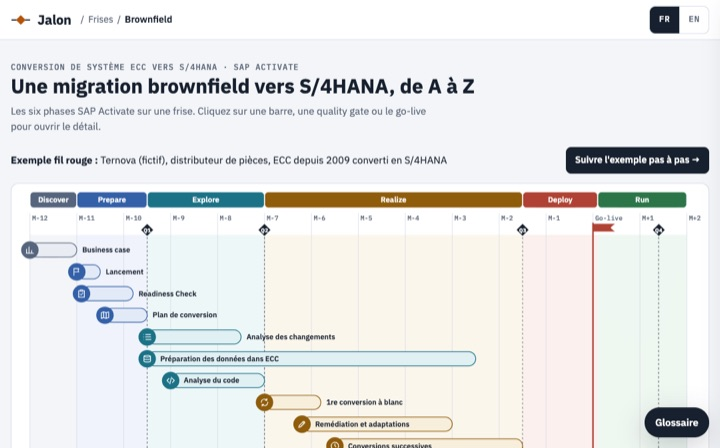
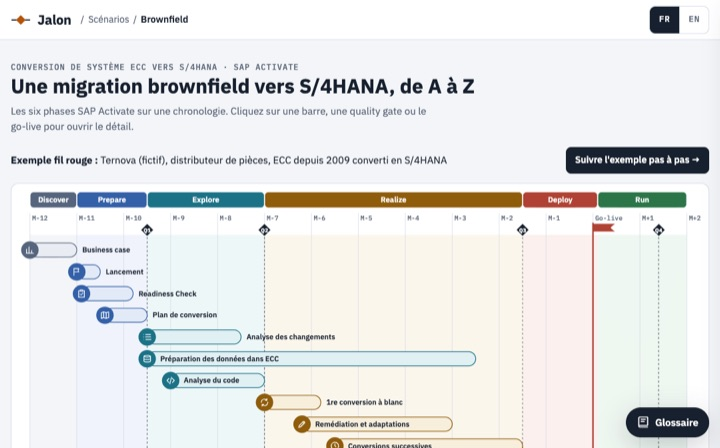
Lot 3 : corrections après le test persona-pm, frises renommées en scénarios

diff --git a/index.html b/index.html
@@ -6,11 +6,11 @@
 <link rel="icon" href="shared/marque/favicon.svg" type="image/svg+xml">
 <link rel="icon" href="shared/marque/favicon-32.png" sizes="32x32" type="image/png">
 <link rel="apple-touch-icon" href="shared/marque/apple-touch-icon.png">
-<meta name="description" content="Frises, glossaire et supports pour piloter un programme SAP : directeurs de programme et chefs de projet. En français et en anglais.">
+<meta name="description" content="Scénarios de mise en œuvre, glossaire et supports pour piloter un programme SAP : directeurs de programme et chefs de projet. En français et en anglais.">
 <meta property="og:site_name" content="Jalon">
 <meta property="og:type" content="website">
 <meta property="og:title" content="Jalon · Piloter un programme SAP">
-<meta property="og:description" content="Frises, glossaire et supports pour piloter un programme SAP : directeurs de programme et chefs de projet. En français et en anglais.">
+<meta property="og:description" content="Scénarios de mise en œuvre, glossaire et supports pour piloter un programme SAP : directeurs de programme et chefs de projet. En français et en anglais.">
 <meta property="og:url" content="https://walidbibi.github.io/portail-elearning-sap/index.html">
 <meta property="og:image" content="https://walidbibi.github.io/portail-elearning-sap/shared/marque/partage.png">
 <meta property="og:image:width" content="1200">
@@ -22,7 +22,7 @@
 <style>html,body{margin:0}[hidden]{display:none!important}img{max-width:100%}</style>
 <title data-t="accueil.titreOnglet"></title>
 <meta name="claude:viewport-fit-sides" content="cover">
-<link rel="stylesheet" href="shared/theme.css?v=202611242116">
+<link rel="stylesheet" href="shared/theme.css?v=202611242130">
 <style>
 /* Accueil de Jalon : bandeau d'entrée, grilles à 4 colonnes, lignes ; téléphone compact (US-032 à US-034). Couleurs : shared/theme.css. */
 *{box-sizing:border-box}
@@ -76,8 +76,6 @@ h2 .ct{font-family:var(--mono);font-size:var(--t-12);font-weight:500;color:var(-
 .fthumb{display:flex;flex-direction:column;justify-content:center;gap:8px;aspect-ratio:16/10;background:var(--mat);padding:14px;border-bottom:1px solid var(--line)}
 .fthumb .ph{display:flex;gap:2px}
 .fthumb .ph i{display:grid;place-items:center;height:20px;border-radius:3px;font-style:normal;font-family:var(--mono);font-size:10px;color:var(--ph-ink);overflow:hidden;white-space:nowrap;min-width:0}
-.fthumb .bars{display:flex;flex-direction:column;gap:4px}
-.fthumb .bars s{display:block;height:6px;border-radius:3px;background:var(--line)}
 .card .exemple{display:block;margin-top:8px;padding-top:8px;border-top:1px dashed var(--line);font-size:var(--t-13);color:var(--muted);line-height:1.4}
 /* lignes : certification et annexes */
 .rows{list-style:none;margin:0;padding:0;border:1px solid var(--line);border-radius:var(--r-10);background:var(--surface);overflow:hidden}
@@ -172,10 +170,10 @@ h2 .ct{font-family:var(--mono);font-size:var(--t-12);font-weight:500;color:var(-
 </div></main>
 
 
-<script src="shared/libelles.js?v=202611242116"></script>
-<script src="shared/documents.js?v=202611242116"></script>
-<script src="shared/entete.js?v=202611242116"></script>
-<script src="shared/glossaire.js?v=202611242116"></script>
+<script src="shared/libelles.js?v=202611242130"></script>
+<script src="shared/documents.js?v=202611242130"></script>
+<script src="shared/entete.js?v=202611242130"></script>
+<script src="shared/glossaire.js?v=202611242130"></script>
 <script>
 Promise.all([SAP_LIBELLES,SAP_DOCUMENTS]).then(async([T,M])=>{
 const en=window.SAP_LANGUE==='en';
@@ -202,10 +200,9 @@ document.getElementById('frises').innerHTML=frises.map((k,i)=>{const d=M.doc(k),
     const total=F.etenduePhases.reduce((s,[a,b])=>s+(b-a),0);
     // seul un segment assez large (30 % de la frise) porte son nom : pas de nom tronqué
     const ph=F.phases.map((p,j)=>{const [a,b]=F.etenduePhases[j];return `<i style="flex:${Math.max(b-a,.6).toFixed(2)};background:var(--c${C[j]})">${(b-a)/total>=.3?esc(p.name):''}</i>`;}).join('');
-    const bars=[.15,.4,.7].map(x=>`<s style="width:${Math.round(40+x*55)}%;margin-left:${Math.round(x*35)}%"></s>`).join('');
     // l'exemple fil rouge dit comme tel (« Exemple : Calvane (fictif), fabricant de pompes »)
     const ex=T('accueil.exemple',{texte:F.exemple.description.split(', ').slice(0,2).join(', ')});
-    vig=`<span class="fthumb" aria-hidden="true"><span class="ph">${ph}</span><span class="bars">${bars}</span></span>`;
+    vig=`<span class="fthumb" aria-hidden="true"><span class="ph">${ph}</span></span>`;
     exemple=`<span class="exemple">${esc(ex)}</span>`;}
   return `<a class="card k-${d.type}" href="${window.SAP_HREF(d.fichier)}">${vig}<span class="cb"><span class="kl">${kind(d)}</span><b>${esc(d.titre)}</b><span class="d">${esc(d.description)}</span>${exemple}</span></a>`;}).join('');
 // certification et annexes : lignes sans aperçu

diff --git a/shared/glossaire.js b/shared/glossaire.js
@@ -53,6 +53,9 @@ body.gl-pinned{padding-right:var(--gl-w)}
 #gl-open{all:unset;cursor:pointer;position:fixed;right:max(16px,env(safe-area-inset-right,0px));bottom:max(16px,env(safe-area-inset-bottom,0px));z-index:14;background:var(--ink);color:var(--surface);font-family:"IBM Plex Sans",-apple-system,"Segoe UI",Arial,sans-serif;font-weight:600;font-size:15px;padding:11px 16px;border-radius:24px;box-shadow:var(--shadow)}
 #gl :focus-visible,#gl-open:focus-visible{outline:3px solid var(--focus);outline-offset:2px}
 body.gl-pinned #gl-open{display:none}
+#gl-open{display:inline-flex;align-items:center;gap:8px}
+#gl-open svg{flex:none}
+@media (max-width:600px){#gl-open{width:48px;height:48px;padding:0;justify-content:center;border-radius:50%}#gl-open .gl-open-t{position:absolute;width:1px;height:1px;overflow:hidden;clip:rect(0 0 0 0);white-space:nowrap}}
 body:not(.gl-pinned) #gl{box-shadow:var(--shadow);transform:translateX(105%);transition:transform .2s;width:min(var(--gl-w),100%);z-index:30}
 body:not(.gl-pinned) #gl.open{transform:none}
 /* tiroir : pleine largeur sur téléphone, voile derrière, marge basse pour le bouton flottant */
@@ -68,7 +71,9 @@ const aside=document.createElement('aside');aside.id='gl';aside.setAttribute('ar
 aside.innerHTML=`<div class="gl-head"><div class="gl-title"><span>${esc(T('glossaire.titre'))}<span class="gl-count" id="gl-count"></span></span><button class="gl-hide" id="gl-hide" type="button">${esc(T('glossaire.masquer'))}</button></div>
 <input id="gl-q" type="search" placeholder="${esc(T('glossaire.recherche'))}" autocomplete="off" aria-label="${esc(T('glossaire.rechercheAria'))}">
 <div class="gl-chips" id="gl-chips"></div></div><div class="gl-list" id="gl-list" aria-live="polite"></div>`;
-const openBtn=document.createElement('button');openBtn.id='gl-open';openBtn.type='button';openBtn.textContent=T('glossaire.ouvrir');
+const openBtn=document.createElement('button');openBtn.id='gl-open';openBtn.type='button';
+// icône de livre + libellé ; sur téléphone, l'icône seule (le libellé reste lu par les lecteurs d'écran)
+openBtn.innerHTML='<svg viewBox="0 0 24 24" width="20" height="20" aria-hidden="true" focusable="false" fill="none" stroke="currentColor" stroke-width="2" stroke-linecap="round" stroke-linejoin="round"><path d="M4 4.5A1.5 1.5 0 0 1 5.5 3H20v15H5.5A1.5 1.5 0 0 0 4 19.5z"/><path d="M4 19.5A1.5 1.5 0 0 0 5.5 21H20"/><path d="M8 7h8M8 11h6"/></svg><span class="gl-open-t">'+esc(T('glossaire.ouvrir'))+'</span>';
 const voile=document.createElement('div');voile.id='gl-voile';voile.hidden=true;voile.setAttribute('aria-hidden','true');
 document.body.append(voile,aside,openBtn);
 const list=aside.querySelector('#gl-list'),q=aside.querySelector('#gl-q'),chips=aside.querySelector('#gl-chips'),count=aside.querySelector('#gl-count');

diff --git a/shared/theme.css b/shared/theme.css
@@ -18,7 +18,7 @@
   --marque-texte:#FFFFFF;--marque-doux:#B8C2D6;--marque-trait:#2A3754;--jalon-clair:#F2B05E;
   --mat:#E3E8EF;--filtre-apercu:none;
   /* types de documents (étiquettes des cartes) */
-  --k-deck:#3460A8;--k-doc:#2B7549;--k-frise:#8F5C0C;--k-act:#6A4FA3;--k-prat:#AF4234;
+  --k-deck:#3460A8;--k-doc:#2B7549;--k-frise:#8F5C0C;--k-act:#6A4FA3;--k-prat:#56657D;
   /* frises : couleurs des phases, teintes de fond, gates, IA, risques */
   --c0:#56657D;--c1:#3460A8;--c2:#1B7287;--c3:#8F5C0C;--c4:#AF4234;--c5:#2B7549;
   --t0:#E9EDF3;--t1:#E3EAF7;--t2:#E0F0F3;--t3:#F7EEDC;--t4:#F7E3E0;--t5:#E1F0E6;
@@ -46,7 +46,7 @@
   --mark:#5A4710;--focus:#F0A35E;
   --marque-texte:#FFFFFF;--marque-doux:#A9B4C8;--marque-trait:#26314A;--jalon-clair:#F2B05E;
   --mat:#151A22;--filtre-apercu:brightness(.82) contrast(1.05);
-  --k-deck:#86A9EC;--k-doc:#6CC58F;--k-frise:#E3AE52;--k-act:#B7A9F2;--k-prat:#EC8A7C;
+  --k-deck:#86A9EC;--k-doc:#6CC58F;--k-frise:#E3AE52;--k-act:#B7A9F2;--k-prat:#9AA8BE;
   --c0:#9AA8BE;--c1:#86A9EC;--c2:#5FC0D4;--c3:#E3AE52;--c4:#EC8A7C;--c5:#6CC58F;
   --t0:#222936;--t1:#1C2740;--t2:#16303A;--t3:#33291A;--t4:#3A2220;--t5:#183224;
   --gate:#E9EDF3;--gate-ink:#12161D;--ph-ink:#12161D;--aibg:#25213A;--aiink:#B7A9F2;--risk:#EC8A7C;
@@ -63,7 +63,7 @@
   --mark:#5A4710;--focus:#F0A35E;
   --marque-texte:#FFFFFF;--marque-doux:#A9B4C8;--marque-trait:#26314A;--jalon-clair:#F2B05E;
   --mat:#151A22;--filtre-apercu:brightness(.82) contrast(1.05);
-  --k-deck:#86A9EC;--k-doc:#6CC58F;--k-frise:#E3AE52;--k-act:#B7A9F2;--k-prat:#EC8A7C;
+  --k-deck:#86A9EC;--k-doc:#6CC58F;--k-frise:#E3AE52;--k-act:#B7A9F2;--k-prat:#9AA8BE;
   --c0:#9AA8BE;--c1:#86A9EC;--c2:#5FC0D4;--c3:#E3AE52;--c4:#EC8A7C;--c5:#6CC58F;
   --t0:#222936;--t1:#1C2740;--t2:#16303A;--t3:#33291A;--t4:#3A2220;--t5:#183224;
   --gate:#E9EDF3;--gate-ink:#12161D;--ph-ink:#12161D;--aibg:#25213A;--aiink:#B7A9F2;--risk:#EC8A7C;

diff --git a/shared/entete.js b/shared/entete.js
@@ -24,16 +24,16 @@ const css=`.jl-hb{display:flex;align-items:center;gap:14px;min-height:60px;paddi
 .jl-logo:focus-visible,.jl-ariane a:focus-visible{outline:3px solid var(--focus);outline-offset:2px}
 .jl-lecteur{display:inline-flex;align-items:center;gap:8px;min-width:0;flex:none}
 .jl-lecteur .jl-ariane{font-size:14px}
-@media (max-width:600px){.jl-mot,.jl-sig{display:none}.jl-hb{gap:10px}}`;
+@media (max-width:600px){.jl-sig{display:none}.jl-hb{gap:10px}.jl-mot{font-size:18px}}`;
 const st=document.createElement('style');st.textContent=css;document.head.appendChild(st);
 
 const logo=(avecMot)=>`<a class="jl-logo" href="${accueil}" data-t-aria="entete.accueil">${MARQUE}${avecMot?'<span class="jl-mot">Jalon</span>':''}</a>`;
 const zones=[...document.querySelectorAll('[data-entete]')];
 zones.forEach(z=>{
   const type=z.dataset.entete;
-  if(type==='lecteur'){z.className='jl-lecteur';z.innerHTML=logo(false)+'<nav class="jl-ariane" data-t-aria="entete.ariane"></nav>';return;}
+  if(type==='lecteur'){z.className='jl-lecteur';z.innerHTML=logo(true)+'<nav class="jl-ariane" data-t-aria="entete.ariane"></nav>';return;}
   z.classList.add('jl-hb');
-  z.innerHTML=logo(true)+(type==='accueil'?'<span class="jl-sig" data-t="portail.signature"></span>':'<nav class="jl-ariane" data-t-aria="entete.ariane"></nav>')+'<span class="jl-sp"></span><div data-langue></div>';
+  z.innerHTML=logo(true)+(type==='accueil'?'<span class="jl-sig" data-t="entete.signature"></span>':'<nav class="jl-ariane" data-t-aria="entete.ariane"></nav>')+'<span class="jl-sp"></span><div data-langue></div>';
 });
 
 // section de l'accueil qui contient un document (ou dont un document a cette version anglaise)

diff --git a/shared/frise.js b/shared/frise.js
@@ -99,7 +99,7 @@ function open(k,src){
   <div class="grid"><section><h3>${esc(T('frise.activites'))}</h3>${list(d.act)}</section><section><h3>${esc(T('frise.prerequis'))}</h3>${list(d.pre)}</section><section><h3>${esc(T('frise.livrables'))}</h3>${list(d.liv)}</section></div>
   ${d.ai?`<div class="ai"><h3>${esc(T('frise.apportIA'))} <span class="gain">${esc(T('frise.gain',{gain:d.aig}))}</span></h3>${list(d.ai)}</div>`:''}
   <div class="risks"><h3>${esc(T('frise.risques'))}</h3>${d.r.map(r=>`<div class="risk"><div><span class="risk-l">${esc(T('frise.risque'))}</span>${esc(r[0])}</div><div><span class="risk-l">${esc(T('frise.parade'))}</span>${esc(r[1])}</div></div>`).join('')}</div>
-  ${d.ex?`<div class="ex"><h3>${esc(T('frise.dansExemple',{entreprise:F.exemple.entreprise}))}</h3><p>${esc(d.ex)}</p></div>`:''}`;
+  ${d.ex?`<div class="ex"><h3>${esc(T('frise.dansExemple',{entreprise:(([nom,...reste])=>T('frise.fictif',{nom})+(reste.length?', '+reste.join(', '):''))(F.exemple.entreprise.split(', '))}))}</h3><p>${esc(d.ex)}</p></div>`:''}`;
   const i=SEQ.indexOf(k);
   if(i>=0){body.insertAdjacentHTML('beforeend',`<div class="nav"><button type="button" class="nb" ${i===0?'disabled':''} data-go="${SEQ[i-1]||''}">${esc(T('frise.precedent'))}</button><span>${i+1} / ${SEQ.length}</span><button type="button" class="nb" ${i===SEQ.length-1?'disabled':''} data-go="${SEQ[i+1]||''}">${esc(T('frise.suivant'))}</button></div>`);}
   ov.hidden=false;dlg.scrollTop=0;X.focus();

diff --git a/lecteur.html b/lecteur.html
@@ -20,7 +20,7 @@
 <meta property="og:locale:alternate" content="en_US">
 <meta name="twitter:card" content="summary_large_image">
 <title></title>
-<link rel="stylesheet" href="shared/theme.css?v=202611242116">
+<link rel="stylesheet" href="shared/theme.css?v=202611242130">
 <style>
 /* Lecteur PDF : une page à la fois, flèches pour naviguer, bouton de téléchargement. */
 *{box-sizing:border-box}
@@ -115,9 +115,9 @@ canvas{display:block;background:var(--page-blanc);box-shadow:var(--page-shadow);
 </main>
 <p class="hint" data-t="lecteur.aide"></p>
 
-<script src="shared/libelles.js?v=202611242116"></script>
-<script src="shared/documents.js?v=202611242116"></script>
-<script src="shared/entete.js?v=202611242116"></script>
+<script src="shared/libelles.js?v=202611242130"></script>
+<script src="shared/documents.js?v=202611242130"></script>
+<script src="shared/entete.js?v=202611242130"></script>
 <script src="shared/pdfjs/pdf.min.js"></script>
 <script>
 Promise.all([SAP_LIBELLES,SAP_DOCUMENTS]).then(function([T,M]){
@@ -197,6 +197,6 @@ pdfjsLib.getDocument({url:src,isEvalSupported:false}).promise.then(d=>{
 }).catch(()=>fail(T('lecteur.erreurOuverture',{src})));
 });
 </script>
-<script src="shared/glossaire.js?v=202611242116"></script>
+<script src="shared/glossaire.js?v=202611242130"></script>
 </body>
 </html>

diff --git a/schemas/roles-programme-sap.html b/schemas/roles-programme-sap.html
@@ -20,7 +20,7 @@
 <meta property="og:locale:alternate" content="en_US">
 <meta name="twitter:card" content="summary_large_image">
 <link rel="alternate" hreflang="en" href="sap-program-roles.html">
-<link rel="stylesheet" href="../shared/theme.css?v=202611242116">
+<link rel="stylesheet" href="../shared/theme.css?v=202611242130">
 <title>Les rôles d'un programme SAP · Jalon</title>
 <style>
 *{box-sizing:border-box}
@@ -127,10 +127,10 @@ document.querySelectorAll('.n').forEach(g=>{
   g.addEventListener('keydown',e=>{if(e.key==='Enter'||e.key===' '){e.preventDefault();show(g);}});
 });
 </script>
-<script src="../shared/libelles.js?v=202611242116"></script>
-<script src="../shared/documents.js?v=202611242116"></script>
-<script src="../shared/entete.js?v=202611242116"></script>
-<script src="../shared/schema.js?v=202611242116"></script>
-<script src="../shared/glossaire.js?v=202611242116"></script>
+<script src="../shared/libelles.js?v=202611242130"></script>
+<script src="../shared/documents.js?v=202611242130"></script>
+<script src="../shared/entete.js?v=202611242130"></script>
+<script src="../shared/schema.js?v=202611242130"></script>
+<script src="../shared/glossaire.js?v=202611242130"></script>
 </body>
 </html>

diff --git a/schemas/sap-program-roles.html b/schemas/sap-program-roles.html
@@ -20,7 +20,7 @@
 <meta property="og:locale:alternate" content="fr_FR">
 <meta name="twitter:card" content="summary_large_image">
 <link rel="alternate" hreflang="fr" href="roles-programme-sap.html">
-<link rel="stylesheet" href="../shared/theme.css?v=202611242116">
+<link rel="stylesheet" href="../shared/theme.css?v=202611242130">
 <title>Roles in an SAP program · Jalon</title>
 <style>
 *{box-sizing:border-box}
@@ -127,10 +127,10 @@ document.querySelectorAll('.n').forEach(g=>{
   g.addEventListener('keydown',e=>{if(e.key==='Enter'||e.key===' '){e.preventDefault();show(g);}});
 });
 </script>
-<script src="../shared/libelles.js?v=202611242116"></script>
-<script src="../shared/documents.js?v=202611242116"></script>
-<script src="../shared/entete.js?v=202611242116"></script>
-<script src="../shared/schema.js?v=202611242116"></script>
-<script src="../shared/glossaire.js?v=202611242116"></script>
+<script src="../shared/libelles.js?v=202611242130"></script>
+<script src="../shared/documents.js?v=202611242130"></script>
+<script src="../shared/entete.js?v=202611242130"></script>
+<script src="../shared/schema.js?v=202611242130"></script>
+<script src="../shared/glossaire.js?v=202611242130"></script>
 </body>
 </html>

diff --git a/frises/brownfield.html b/frises/brownfield.html
@@ -21,8 +21,8 @@
 <meta name="twitter:card" content="summary_large_image">
 <title></title>
 <meta name="claude:viewport-fit-sides" content="cover">
-<link rel="stylesheet" href="../shared/theme.css?v=202611242116">
-<link rel="stylesheet" href="../shared/frise.css?v=202611242116">
+<link rel="stylesheet" href="../shared/theme.css?v=202611242130">
+<link rel="stylesheet" href="../shared/frise.css?v=202611242130">
 </head>
 <body>
 
@@ -54,10 +54,10 @@
   </div>
 </div>
 
-<script src="../shared/libelles.js?v=202611242116"></script>
-<script src="../shared/documents.js?v=202611242116"></script>
-<script src="../shared/entete.js?v=202611242116"></script>
-<script src="../shared/frise.js?v=202611242116" data-frise="brownfield.json"></script>
-<script src="../shared/glossaire.js?v=202611242116"></script>
+<script src="../shared/libelles.js?v=202611242130"></script>
+<script src="../shared/documents.js?v=202611242130"></script>
+<script src="../shared/entete.js?v=202611242130"></script>
+<script src="../shared/frise.js?v=202611242130" data-frise="brownfield.json"></script>
+<script src="../shared/glossaire.js?v=202611242130"></script>
 </body>
 </html>

diff --git a/frises/greenfield.html b/frises/greenfield.html
@@ -21,8 +21,8 @@
 <meta name="twitter:card" content="summary_large_image">
 <title></title>
 <meta name="claude:viewport-fit-sides" content="cover">
-<link rel="stylesheet" href="../shared/theme.css?v=202611242116">
-<link rel="stylesheet" href="../shared/frise.css?v=202611242116">
+<link rel="stylesheet" href="../shared/theme.css?v=202611242130">
+<link rel="stylesheet" href="../shared/frise.css?v=202611242130">
 </head>
 <body>
 
@@ -54,10 +54,10 @@
   </div>
 </div>
 
-<script src="../shared/libelles.js?v=202611242116"></script>
-<script src="../shared/documents.js?v=202611242116"></script>
-<script src="../shared/entete.js?v=202611242116"></script>
-<script src="../shared/frise.js?v=202611242116" data-frise="greenfield.json"></script>
-<script src="../shared/glossaire.js?v=202611242116"></script>
+<script src="../shared/libelles.js?v=202611242130"></script>
+<script src="../shared/documents.js?v=202611242130"></script>
+<script src="../shared/entete.js?v=202611242130"></script>
+<script src="../shared/frise.js?v=202611242130" data-frise="greenfield.json"></script>
+<script src="../shared/glossaire.js?v=202611242130"></script>
 </body>
 </html>

diff --git a/frises/bluefield.html b/frises/bluefield.html
@@ -21,8 +21,8 @@
 <meta name="twitter:card" content="summary_large_image">
 <title></title>
 <meta name="claude:viewport-fit-sides" content="cover">
-<link rel="stylesheet" href="../shared/theme.css?v=202611242116">
-<link rel="stylesheet" href="../shared/frise.css?v=202611242116">
+<link rel="stylesheet" href="../shared/theme.css?v=202611242130">
+<link rel="stylesheet" href="../shared/frise.css?v=202611242130">
 </head>
 <body>
 
@@ -54,10 +54,10 @@
   </div>
 </div>
 
-<script src="../shared/libelles.js?v=202611242116"></script>
-<script src="../shared/documents.js?v=202611242116"></script>
-<script src="../shared/entete.js?v=202611242116"></script>
-<script src="../shared/frise.js?v=202611242116" data-frise="bluefield.json"></script>
-<script src="../shared/glossaire.js?v=202611242116"></script>
+<script src="../shared/libelles.js?v=202611242130"></script>
+<script src="../shared/documents.js?v=202611242130"></script>
+<script src="../shared/entete.js?v=202611242130"></script>
+<script src="../shared/frise.js?v=202611242130" data-frise="bluefield.json"></script>
+<script src="../shared/glossaire.js?v=202611242130"></script>
 </body>
 </html>

diff --git a/frises/rollout.html b/frises/rollout.html
@@ -21,8 +21,8 @@
 <meta name="twitter:card" content="summary_large_image">
 <title></title>
 <meta name="claude:viewport-fit-sides" content="cover">
-<link rel="stylesheet" href="../shared/theme.css?v=202611242116">
-<link rel="stylesheet" href="../shared/frise.css?v=202611242116">
+<link rel="stylesheet" href="../shared/theme.css?v=202611242130">
+<link rel="stylesheet" href="../shared/frise.css?v=202611242130">
 </head>
 <body>
 
@@ -54,10 +54,10 @@
   </div>
 </div>
 
-<script src="../shared/libelles.js?v=202611242116"></script>
-<script src="../shared/documents.js?v=202611242116"></script>
-<script src="../shared/entete.js?v=202611242116"></script>
-<script src="../shared/frise.js?v=202611242116" data-frise="rollout.json"></script>
-<script src="../shared/glossaire.js?v=202611242116"></script>
+<script src="../shared/libelles.js?v=202611242130"></script>
+<script src="../shared/documents.js?v=202611242130"></script>
+<script src="../shared/entete.js?v=202611242130"></script>
+<script src="../shared/frise.js?v=202611242130" data-frise="rollout.json"></script>
+<script src="../shared/glossaire.js?v=202611242130"></script>
 </body>
 </html>
